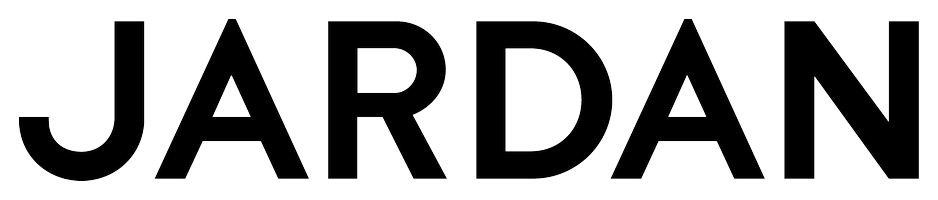
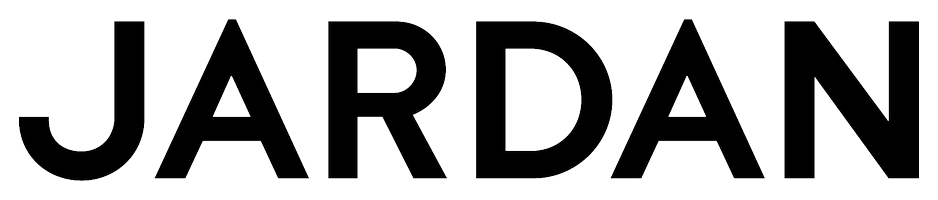
sponsors: read EPS directly instead of cropping from the poster
Ghostscript turns EPS into PDF and poppler takes it from there, so the
three sponsors who only ever sent EPS — Curated by Tom, JamFactory and
Little Bang — now show their real artwork rather than a 600dpi crop of
the printed program. Roughly double the resolution, and correct curves
instead of resampled ones.

PDF rasterisation now picks its resolution from the page size, since
these sources run from an 80pt mark to a full A4 sheet; a fixed dpi
either starved the small ones or blew the big ones past Pillow's
decompression limit.

Needs `brew install ghostscript` to re-run.

diff --git a/scripts/build-sponsors.py b/scripts/build-sponsors.py
@@ -55,13 +55,13 @@ TIERS = [
    ("Caroma",               L+"04_Bronze/02_Caroma/CAROMA_LOGO_POSITIVE_RGB.png"),
    ("CDK Stone",            W+"poster/cdk-stone.png"),
    ("City of Adelaide",     W+"rasterised/city-of-adelaide.png"),
-   ("Curated by Tom",       W+"poster/curated-by-tom.png"),
+   ("Curated by Tom",       L+"04_Bronze/05_Curated by Tom/Curated By Tom Logo [Black].eps"),
    ("Daniel Emma",          W+"poster/daniel-emma.png"),
    ("Design by WBL",        L+"04_Bronze/07_Design by WBL/PNG/DESIGN-BY-WBL_LOGO_BLACK.png"),
    ("Future Urban",         L+"04_Bronze/08_Future Urban/FutureUrban Logo_Black_White Background.pdf"),
    ("Insight Lighting",     L+"04_Bronze/09_Insight Lighting/insight-RGB-Colour-POS-300dpi.png"),
    ("Honeydripper",         W+"rasterised/honeydripper.png"),
-   ("JamFactory",           W+"poster/jamfactory.png"),
+   ("JamFactory",           L+"05_In-Kind/08_Jam Factory/JamFactory_black.eps"),
    ("Place Journal",        L+"04_Bronze/10_Place Journal/PlaceLogo_Black.png"),
    ("Piteo",                L+"04_Bronze/11_Piteo/PITEO_LockupA.png"),
    ("RF Lux",               W+"rasterised/rf-lux.png"),
@@ -74,15 +74,15 @@ TIERS = [
    ("AGSA",                 L+"05_In-Kind/02_AGSA/AGSA_Primary_Black.png"),
    ("Cult",                 L+"05_In-Kind/04_Cult/CULT LOGO.png"),
    ("Guildhouse",           W+"poster/guildhouse.png"),
-   ("JamFactory",           W+"poster/jamfactory.png"),
+   ("JamFactory",           L+"05_In-Kind/08_Jam Factory/JamFactory_black.eps"),
    ("Etikette Candles",     W+"rasterised/etikette.png"),
-   ("Little Bang Brewing Co", W+"poster/little-bang-brewing-co.png"),
+   ("Little Bang Brewing Co", L+"05_In-Kind/09_Little Bang Brewing/LBBC Logo Stacked Horizontal Black.eps"),
    ("Pundi",                L+"05_In-Kind/10_Pundi/Pundi Logo - SCREEN - Mono Black.png"),
    ("Table Wines",          W+"rasterised/table-wines.png"),
  ]),
 ]
 
-import os, sys, json, subprocess, tempfile
+import os, re, sys, json, subprocess, tempfile
 from PIL import Image
 Image.MAX_IMAGE_PIXELS = None
 
@@ -94,9 +94,27 @@ def slug(name):
     return "".join(c.lower() if c.isalnum() else "-" for c in name).strip("-").replace("--","-")
 
 def load(path):
+    # EPS is PostScript, which nothing on a stock Mac can read. Ghostscript
+    # turns it into PDF and poppler takes it from there, so a sponsor who sends
+    # EPS gets their real artwork rather than a crop of the printed program.
+    #   brew install ghostscript
+    if path.lower().endswith(".eps"):
+        d = tempfile.mkdtemp()
+        pdf = os.path.join(d, "logo.pdf")
+        subprocess.run(["gs","-q","-dNOPAUSE","-dBATCH","-dSAFER","-dEPSCrop",
+                        "-sDEVICE=pdfwrite","-sOutputFile=" + pdf, path], check=True)
+        path = pdf
     if path.lower().endswith(".pdf"):
         d = tempfile.mkdtemp()
-        subprocess.run(["pdftoppm","-png","-r","150","-f","1","-l","1",path,d+"/p"],check=True)
+        # Pick the resolution from the page size so a small logo comes out at a
+        # usable height and a big one doesn't blow up into hundreds of
+        # megapixels — these range from an 80pt mark to a full A4 sheet.
+        pts = 0
+        info = subprocess.run(["pdfinfo", path], capture_output=True, text=True).stdout
+        m = re.search(r"Page size:\s+[\d.]+ x ([\d.]+)", info)
+        if m: pts = float(m.group(1))
+        dpi = min(1200, max(72, int(43200 / pts))) if pts else 200
+        subprocess.run(["pdftoppm","-png","-r",str(dpi),"-f","1","-l","1",path,d+"/p"],check=True)
         f = sorted(os.listdir(d))[0]
         return Image.open(os.path.join(d,f)).convert("RGBA")
     return Image.open(path).convert("RGBA")
